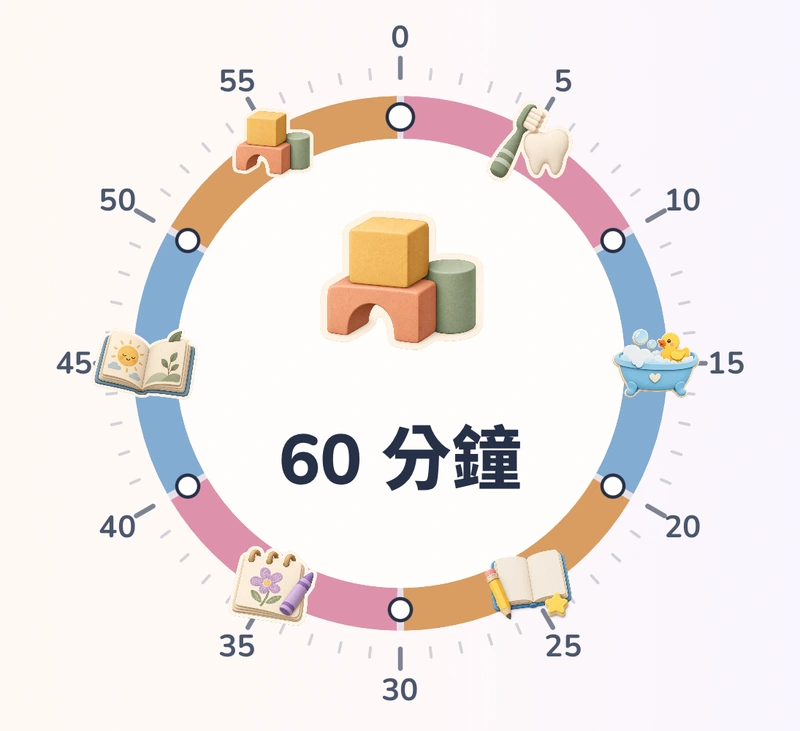
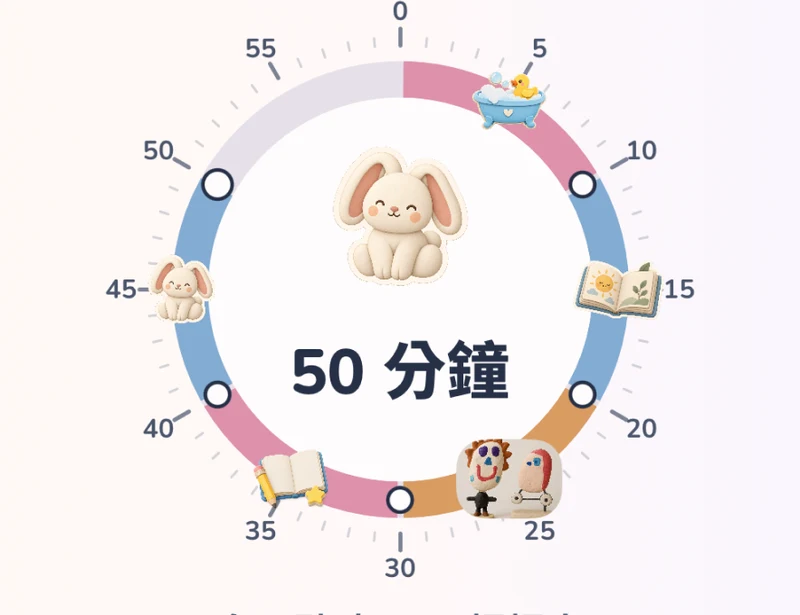
Publish 1.6.0 site: final screenshots, privacy export formats and date
Claude-Session: https://claude.ai/code/session_01XmH1axFAULiT9xuux5ARBK

diff --git a/index.html b/index.html
@@ -11,7 +11,7 @@
   <link rel="alternate icon" href="assets/timoji-mark.png" type="image/png">
   <link rel="alternate" hreflang="zh-Hant" href="index-zh-Hant.html">
   <link rel="stylesheet" href="styles.css">
-  <link rel="stylesheet" href="home.css?v=1.5.3-draft">
+  <link rel="stylesheet" href="home.css?v=1.6.0">
 </head>
 <body class="home-page">
   <a class="skip-link" href="#main">Skip to content</a>
@@ -51,11 +51,11 @@
       <div class="section-heading"><p class="feature-label">Included in Free</p><h2 id="how-title">Everyday essentials, included.</h2></div>
       <ul class="feature-grid four">
         <li class="feature-card">
-          <div class="feature-visual"><img src="assets/home/core-01-en.webp" width="720" height="720" alt="A 15-minute visual timer with a building-block activity." loading="lazy"></div>
+          <div class="feature-visual"><img src="assets/home/core-01-en.webp" width="720" height="720" alt="A 15-minute visual timer with a bunny sticker." loading="lazy"></div>
           <div class="feature-copy"><h3>No need to keep saying “Hurry up.”</h3><p>Help your child see time, one thing at a time.</p></div>
         </li>
         <li class="feature-card">
-          <div class="feature-visual"><img src="assets/home/pick-en.webp" width="800" height="466" alt="Activity stickers and the GO button." loading="lazy"></div>
+          <div class="feature-visual"><img src="assets/home/pick-en.webp" width="800" height="453" alt="Activity stickers and the GO button." loading="lazy"></div>
           <div class="feature-copy"><h3>Pick a sticker. Start together.</h3><p>Tap a sticker, drag the ring to set the time, then tap GO.</p></div>
         </li>
         <li class="feature-card">
@@ -63,7 +63,7 @@
           <div class="feature-copy"><h3>Choose what comes next.</h3><p>Again or Next? Plan together, and let your child choose.</p></div>
         </li>
         <li class="feature-card">
-          <div class="feature-visual"><img src="assets/home/core-05-en.webp" width="800" height="731" alt="Activities arranged within a 60-minute timer." loading="lazy"></div>
+          <div class="feature-visual"><img src="assets/home/core-05-en.webp" width="800" height="615" alt="Several activities arranged in a 60-minute timer." loading="lazy"></div>
           <div class="feature-copy"><h3>Some things don’t need to be rushed.</h3><p>Up to 60 minutes, for things that take time.</p></div>
         </li>
       </ul>
@@ -73,15 +73,15 @@
       <div class="section-heading"><p class="feature-label">timoji Plus · One-time purchase</p><h2 id="plus-title">Make it a little more your own.</h2></div>
       <ul class="feature-grid">
         <li class="feature-card">
-          <div class="feature-visual"><img src="assets/home/core-04-en.webp" width="800" height="438" alt="Camera and Photos choices for a custom activity." loading="lazy"></div>
+          <div class="feature-visual"><img src="assets/home/core-04-en.webp" width="800" height="904" alt="The sticker sheet with New sticker and your activity stickers." loading="lazy"></div>
           <div class="feature-copy"><h3>Make your own stickers.</h3><p>Turn your own photos into activity stickers.</p></div>
         </li>
         <li class="feature-card">
-          <div class="feature-visual"><img src="assets/home/plus-en.webp" width="800" height="614" alt="A saved routine with its activities and times." loading="lazy"></div>
+          <div class="feature-visual"><img src="assets/home/plus-en.webp" width="800" height="857" alt="A saved routine with its activities and times." loading="lazy"></div>
           <div class="feature-copy"><h3>Plan a routine together.</h3><p>Set up a routine once. Use it any day.</p></div>
         </li>
         <li class="feature-card">
-          <div class="feature-visual"><img src="assets/home/history-en.webp" width="746" height="985" alt="This week’s activity time, with a daily bar chart." loading="lazy"></div>
+          <div class="feature-visual"><img src="assets/home/history-en.webp" width="746" height="987" alt="This week’s activity time, with a daily bar chart." loading="lazy"></div>
           <div class="feature-copy"><h3>Look back together.</h3><p>See the activities you’ve done together.</p></div>
         </li>
       </ul>

diff --git a/index-zh-Hant.html b/index-zh-Hant.html
@@ -11,7 +11,7 @@
   <link rel="alternate icon" href="assets/timoji-mark.png" type="image/png">
   <link rel="alternate" hreflang="en" href="index.html">
   <link rel="stylesheet" href="styles.css">
-  <link rel="stylesheet" href="home.css?v=1.5.3-draft">
+  <link rel="stylesheet" href="home.css?v=1.6.0">
 </head>
 <body class="home-page">
   <a class="skip-link" href="#main">跳至主要內容</a>
@@ -51,11 +51,11 @@
       <div class="section-heading"><p class="feature-label">免費功能</p><h2 id="how-title">日常需要的，已經準備好。</h2></div>
       <ul class="feature-grid four">
         <li class="feature-card">
-          <div class="feature-visual"><img src="assets/home/core-01-zh-Hant.webp" width="720" height="720" alt="15 分鐘環形計時器與積木活動。" loading="lazy"></div>
+          <div class="feature-visual"><img src="assets/home/core-01-zh-Hant.webp" width="720" height="720" alt="15 分鐘環形計時器與小兔子貼紙。" loading="lazy"></div>
           <div class="feature-copy"><h3>不用一直說「快一點」</h3><p>陪孩子一次做好一件事，慢慢理解時間。</p></div>
         </li>
         <li class="feature-card">
-          <div class="feature-visual"><img src="assets/home/pick-zh-Hant.webp" width="800" height="466" alt="活動貼紙與開始按鈕。" loading="lazy"></div>
+          <div class="feature-visual"><img src="assets/home/pick-zh-Hant.webp" width="800" height="453" alt="活動貼紙與開始按鈕。" loading="lazy"></div>
           <div class="feature-copy"><h3>選張貼紙，開始日常</h3><p>點一張貼紙，拖動圓環設定時間，再按開始。</p></div>
         </li>
         <li class="feature-card">
@@ -63,7 +63,7 @@
           <div class="feature-copy"><h3>自己決定下一步</h3><p>再一次，還是下一個？一起看選擇，讓孩子決定。</p></div>
         </li>
         <li class="feature-card">
-          <div class="feature-visual"><img src="assets/home/core-05-zh-Hant.webp" width="800" height="731" alt="最長 60 分鐘的活動安排。" loading="lazy"></div>
+          <div class="feature-visual"><img src="assets/home/core-05-zh-Hant.webp" width="800" height="615" alt="在 60 分鐘計時器裡安排多個活動。" loading="lazy"></div>
           <div class="feature-copy"><h3>有些事，不需要趕</h3><p>最長 60 分鐘，給需要慢慢來的事多點空間。</p></div>
         </li>
       </ul>
@@ -73,15 +73,15 @@
       <div class="section-heading"><p class="feature-label">timoji Plus · 一次購買</p><h2 id="plus-title">多一點自己的樣子。</h2></div>
       <ul class="feature-grid">
         <li class="feature-card">
-          <div class="feature-visual"><img src="assets/home/core-04-zh-Hant.webp" width="800" height="438" alt="新增活動的拍照與照片選取入口。" loading="lazy"></div>
+          <div class="feature-visual"><img src="assets/home/core-04-zh-Hant.webp" width="800" height="904" alt="貼紙選單裡的「新增貼紙」與活動貼紙。" loading="lazy"></div>
           <div class="feature-copy"><h3>把熟悉的日常，做成貼紙</h3><p>用自己的照片，做成熟悉的活動貼紙。</p></div>
         </li>
         <li class="feature-card">
-          <div class="feature-visual"><img src="assets/home/plus-zh-Hant.webp" width="800" height="614" alt="日常流程的活動順序與各自的時間。" loading="lazy"></div>
+          <div class="feature-visual"><img src="assets/home/plus-zh-Hant.webp" width="800" height="876" alt="日常流程的活動順序與各自的時間。" loading="lazy"></div>
           <div class="feature-copy"><h3>一起安排日常流程</h3><p>把日常流程一次安排好。</p></div>
         </li>
         <li class="feature-card">
-          <div class="feature-visual"><img src="assets/home/history-zh-Hant.webp" width="746" height="985" alt="本週活動總時間與每日長條圖。" loading="lazy"></div>
+          <div class="feature-visual"><img src="assets/home/history-zh-Hant.webp" width="746" height="987" alt="本週活動總時間與每日長條圖。" loading="lazy"></div>
           <div class="feature-copy"><h3>一起回顧</h3><p>回頭看看我們一起完成的活動。</p></div>
         </li>
       </ul>

diff --git a/privacy.html b/privacy.html
@@ -28,7 +28,7 @@
     <div class="page-heading">
       <p class="eyebrow">timoji / Privacy</p>
       <h1>Privacy Policy</h1>
-      <div class="policy-meta"><p>Product: timoji</p><p>Last updated: <time datetime="2026-10-25">25 October 2026</time></p></div>
+      <div class="policy-meta"><p>Product: timoji</p><p>Last updated: <time datetime="2026-10-26">26 October 2026</time></p></div>
     </div>
     <div class="policy-layout">
       <nav class="policy-nav" aria-label="Privacy policy sections">
@@ -54,7 +54,7 @@
 <p>On supported devices and systems, you may use Apple’s Image Playground, including Genmoji, to create an activity image. Apple manages generation under its privacy terms; processing may use on-device models, Apple services, or extensions you choose in the system interface. timoji receives the image you accept and stores it locally. It does not send your library to a developer-operated image-generation service. This feature is optional; photos and built-in stickers remain available. See <a href="https://www.apple.com/legal/privacy/data/en/intelligence-engine/">Apple Intelligence and Privacy</a>.</p>
 <p>This version has no advertising, tracking, third-party analytics, or crash-reporting SDK. We do not sell personal information, share it for targeted advertising, or create advertising profiles. Information voluntarily sent by email and website hosting are described below.</p></section>
 <section id="how-timoji-stores-data" aria-labelledby="how-timoji-stores-data-title"><h2 id="how-timoji-stores-data-title">How timoji Stores Data</h2><p>Your activities, photos, routines, and timer settings are stored in local app storage. We do not operate a server that receives this library, and timoji has no separate cloud account or app-to-app sync service. Cropped sticker copies are also stored in a shared on-device App Group container so the Live Activity extension can display them.</p>
-<p>With timoji Plus, Activity History records finished activities (activity name, start and end times, and focused minutes) on this device. If iCloud Backup is on, they’re included in it. timoji doesn’t collect them. You can export, import, or clear these records, or turn recording off, in Manage History. Exports are saved only where you choose.</p>
+<p>With timoji Plus, Activity History records finished activities (activity name, start and end times, and focused minutes) on this device. If iCloud Backup is on, they’re included in it. timoji doesn’t collect them. In Manage History, you can export these records as a spreadsheet (CSV) or a timoji backup file, import a backup, clear the records, or turn recording off. Exports are saved only where you choose.</p>
 <p>Device or iCloud backups may include app data depending on your Apple settings. These system backups are separate from timoji’s local storage. We cannot access, recover, or delete your local library or Apple backups. You can manage backups through Apple’s device and account settings.</p></section>
 <section id="purchases" aria-labelledby="purchases-title"><h2 id="purchases-title">Purchases</h2><p>Apple handles timoji Plus payments and restores through the App Store. timoji checks verified StoreKit transactions on your device to unlock purchased features.</p>
 <p>We do not receive your payment card details or Apple Account password. Apple processes purchase information under its own <a href="https://www.apple.com/legal/privacy/">privacy policy</a>.</p></section>

diff --git a/privacy-zh-Hant.html b/privacy-zh-Hant.html
@@ -28,7 +28,7 @@
     <div class="page-heading">
       <p class="eyebrow">timoji / 隱私權</p>
       <h1>隱私權政策</h1>
-      <div class="policy-meta"><p>產品：timoji</p><p>更新日期： <time datetime="2026-10-25">2026 年 10 月 25 日</time></p></div>
+      <div class="policy-meta"><p>產品：timoji</p><p>更新日期： <time datetime="2026-10-26">2026 年 10 月 26 日</time></p></div>
     </div>
     <div class="policy-layout">
       <nav class="policy-nav" aria-label="隱私權政策章節">
@@ -54,7 +54,7 @@
 <p>在支援的裝置與系統上，你可以使用 Apple 的 Image Playground（包含 Genmoji）製作活動圖像。生成流程由 Apple 依其隱私條款提供，可能使用裝置端模型、Apple 服務，或你在系統介面選用的延伸功能。timoji 只接收你確認採用的圖片並儲存在本機，不會將活動資料庫傳送至開發者的圖片生成服務。此功能為選用，照片與內建貼紙仍可使用。請參閱 <a href="https://www.apple.com/legal/privacy/data/en/intelligence-engine/">Apple Intelligence 與隱私權</a>。</p>
 <p>目前版本沒有廣告、追蹤、第三方分析或當機回報 SDK。我們不出售個人資料、不為定向廣告分享資料，也不建立廣告用戶資料。自願寄來的信件與網站主機資料處理方式，請見下方說明。</p></section>
 <section id="how-timoji-stores-data" aria-labelledby="how-timoji-stores-data-title"><h2 id="how-timoji-stores-data-title">資料儲存方式</h2><p>活動、照片、日常流程與計時設定儲存在本機 App 空間。我們沒有接收這份資料庫的伺服器，timoji 也沒有獨立雲端帳號或跨 App 同步服務。裁切後的貼紙副本另存於裝置上的共用 App Group 空間，供即時動態延伸功能顯示。</p>
-<p>timoji Plus 的活動紀錄會記下完成的活動（活動名稱、開始與結束時間、專注分鐘數）。活動時間紀錄儲存在這台裝置；若開啟 iCloud 備份，也會一併備份。紀錄可匯出、匯入或清除，timoji 不會收集。你也可以在「管理紀錄」關閉紀錄；匯出的檔案只會存到你選擇的位置。</p>
+<p>timoji Plus 的活動紀錄會記下完成的活動（活動名稱、開始與結束時間、專注分鐘數）。活動時間紀錄儲存在這台裝置；若開啟 iCloud 備份，也會一併備份。timoji 不會收集。在「管理紀錄」裡，你可以把紀錄匯出成試算表（CSV）或 timoji 備份檔、匯入備份、清除紀錄，或關閉紀錄；匯出的檔案只會存到你選擇的位置。</p>
 <p>裝置或 iCloud 備份可能依你的 Apple 設定包含 App 資料；這些系統備份與 timoji 本機儲存不同。我們無法存取、回復或刪除你的本機資料庫或 Apple 備份。你可以透過 Apple 裝置與帳號設定管理備份。</p></section>
 <section id="purchases" aria-labelledby="purchases-title"><h2 id="purchases-title">購買</h2><p>Apple 透過 App Store 處理 timoji Plus 的付款與回復購買項目。timoji 在裝置上核對已驗證的 StoreKit 交易，以解鎖已購買的功能。</p>
 <p>我們不會取得你的付款卡資料或 Apple 帳號密碼。Apple 依其 <a href="https://www.apple.com/legal/privacy/">隱私權政策</a> 處理購買資料。</p></section>
